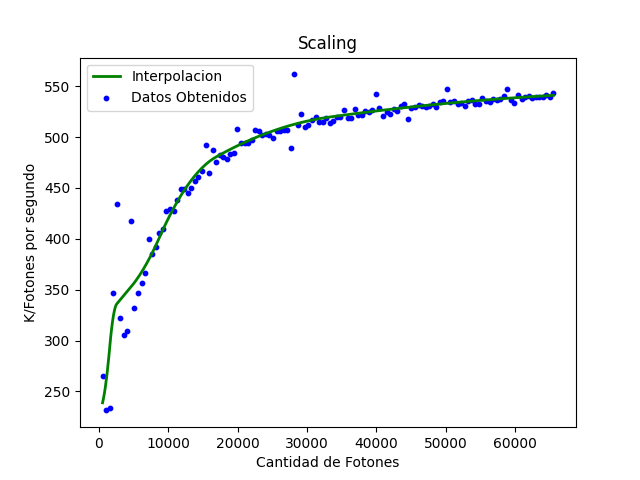
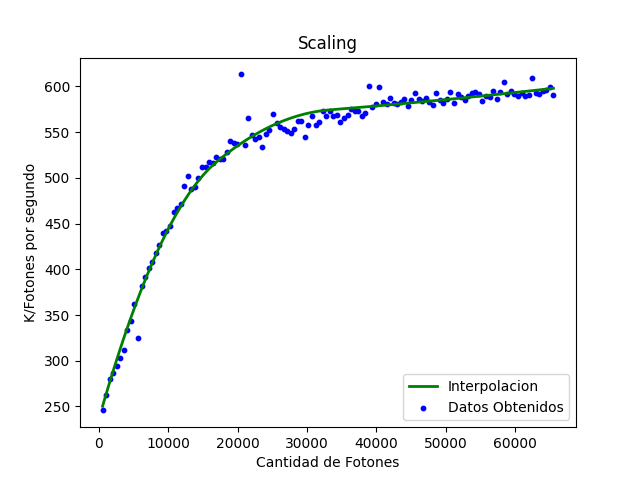
Editado Informe, agregado scaling y otros

diff --git a/informe/Informe.md b/informe/Informe.md
@@ -2,7 +2,7 @@
 
 #### Hardware y software
 - Intel® Core™ i7-8550U CPU @ 1.80GHz × 8 
-- 16 gb de ram 
+- 16 gb de ram DDR4 2400 MT/s 64 bit width
 - Ubuntu 20.04.2 LTS x86-64
 - gcc 9.3.0
 - clang 10.0.0-4ubuntu1
@@ -13,20 +13,20 @@ Mediciones generadas por Empirical Roofline Toolkit para el procesador Intel® C
 
 ---------------------------
 
-- Apple M1 x 8 
-- 16 gb ram
+- Apple M1 x 8
+- 16 gb ram LPDDR4x 4266 MT/s 128 bit width
 - gcc 10.2.1
 - clang Apple clang 12.0.0
 - macOS 11.2.3 ARM-64
 - kernel 20.3.0
 
 ![alt text](m1.png)
-Mediciones generadas por Empirical Roofline Toolkit para el procesador Apple M1
+Mediciones generadas por Empirical Roofline Toolkit para el procesador Apple M1 - Notar que se uso la misma configuracion que para el procesador intel, tomarlo con cuidado, el M1 no tiene caches L3 ni L4 y hubo flags que se desactivaron.
 
 ### Metricas
 Como metricas usamos la cantidad de fotones por segundo guardando los datos en el archivo results.txt
 corriendo y compilando los archivos con varias combinaciones de flags y distintos compiladores.
-tambien usamos Empirical Roofline Toolkit para conocer el modelo y velocidad de nuestro procesador y  capacidad, velocidad, cantidad de canales ocupados de la memoria. 
+tambien usamos Empirical Roofline Toolkit junto a internet para conocer el modelo y velocidad de nuestro procesador y  capacidad, velocidad, cantidad de canales ocupados de la memoria. 
 
 Otra opcion de metrica es usar el comando: 
 
@@ -35,14 +35,32 @@ Otra opcion de metrica es usar el comando:
 pero como solo funciona para la pc con ubuntu decidimos descartarlo en las comparaciones.
 
 ### Optimizacion 
-Finalmente como optimizacion decidimos usar una libreria para generar numeros random mediante el conocido generador de numeros llamado [Mersenne twister](https://github.com/ESultanik/mtwister) ya que investigando un poco nos encontramos que el rendimiento de mersenne twister suele ser mejor que la mayoria de los generadores pseudoaleatorios. 
+Lo primero que hicimos fue armar un script en python que recorriese todo el espacio de flags que queriamos probar. El script tambien corria 10 veces el script, descartaba el primer resultado (en general siempre daba bastante mas bajo que los subsiguientes, calienta la cache?) y sacaba la media de los resultados. Asi obtuvimos los flags que daban mejores resultados en cada computadora.
+
+Como otra optimizacion decidimos usar una libreria para generar numeros random mediante el conocido generador de numeros llamado [Mersenne twister](https://github.com/ESultanik/mtwister) ya que investigando un poco nos encontramos que el rendimiento de mersenne twister suele ser mejor que la mayoria de los generadores pseudoaleatorios y tiny_mc utiliza varios numeros random en cada corrida del loop principal.
 
 Esto nos brindo una gran mejora en cuanto a resultados, la implementacion de este generador esta en el archivo tiny_twis.c y lo compararemos con el tiny_mc.c.
 
+### Optimizaciones que no funcionaron
+Algunas optimizaciones que creimos que podrian funcionar y terminamos descartando fue cambiar la llamada de sqrt en la normalizacion de vectores. Aca intentamos usar el famoso fast inverse sqrt pero tal y como aclara en el articulo de wikipedia intel tiene una instruccion mas rapida y mejor aproximada que se habilita con el flag --sse o --march=native. En el M1 tampoco notamos ninguna mejora real asi que suponemos que tambien pasa algo parecido auque las instrucciones de arm tienden a ser menos complejas asi que tal vez sea simplemente una buena implementacion de libreria.
+
+Otra mejora que probamos fue usar el flag funroll-all-loops que fuerza el unrolling the loops cuando no se conoce cuantas iteraciones tiene el loop, creimos que esto podia ayudar a tiny_mc ya que varios de los loops no son cerrados (la cantidad de iteraciones depende exclusivamente de condiciones, no esta predeterminada en compilacion). Viendo los resultados obtuvo mas o menos el mismo resultado que --funroll-loops.
+
+Tambien hubo optimizaciones que tenian mas efecto en una pc que en la otra, --funroll-loops en el M1 dio un muy buen resultado mientras que en Intel --ffast-math dio mejores resultados. Tambien notamos que la diferencia entre -O2 y -O3 fue trivial en ambas pc, con -O2 sacando mejores resultados en general cuando estaba en combinacion con otros flags.
+### Scaling del problema
+Para ver como cambiaba la velocidad dependiendo al tamaño del problema lo que hicimos fue aprovechar la posibilidad de redefinir la constante PHOTONS en compilacion con el flag -DPHOTONS para ver como afectaba el cambio de la cantidad de fotones a la perfomance, calculamos desde 512 fotones a 65534 con saltos de 512. 
+
+Aca notamos una gran diferencia entre ambas CPUs ya que el procesador Intel a partir de 10k fotones se estabilizaba y llegaba a su performance maxima. Por otro lado en el M1 la performace crece gradualmente hasta llegar a los 30k fotones donde se empieza a estabilizar. En ambos casos el scaling es logaritmico aunque en Intel es mas constante, la cantidad de K fotones/s en Intel tiene un rango entre 220 y 260 descartantado puntos anomalos mientras que el M1 tiene un rango entre 250 y 600.
+Tambien graficamos un spline cubico suavizado interpolando los datos para tenerlo como referencia.
+#### Grafico Intel Core i7
+![Scaling Results i7](Result_i7.png)
+#### Grafico Apple M1
+![Scaling Results M1](Result_M1.png)
+
 ### Mejoras a implementar en el futuro
 Como mejoras a implementar en el futuro pensamos en investigar sobre otros generadores de numeros aleatorios, ya que vimos esto es lo que mas impacta en el rendimiento del programa. 
-Paralelizar la generacion de numeros paralelos.
 
+Algo que estuvimos a punto de hacer pero decidimos que probablemente no era el obejtivo de este lab y de uno mas adelante era separar el programa en varios threads. Como cada foton hace su trayectoria independientemente de los otros, facilmente podemos dividir los 32k de fotones en 8 por ejemplo y lanzar 8 threads que resuelvan parte del problema. Ahi probablemente entre en juego ver que tan thread-safe es el mersenne-twister y tengamos que usar una semilla distinta para el RNG de cada thread. Esto posiblemente aumente la velocidad del programa enormemente , calculamos alredeor de x5 en Intel (4 nucleos con hyperthreading) y x6 - x7 en el M1 por los nucleos de baja performance.
 
 ### Conclusion
 
